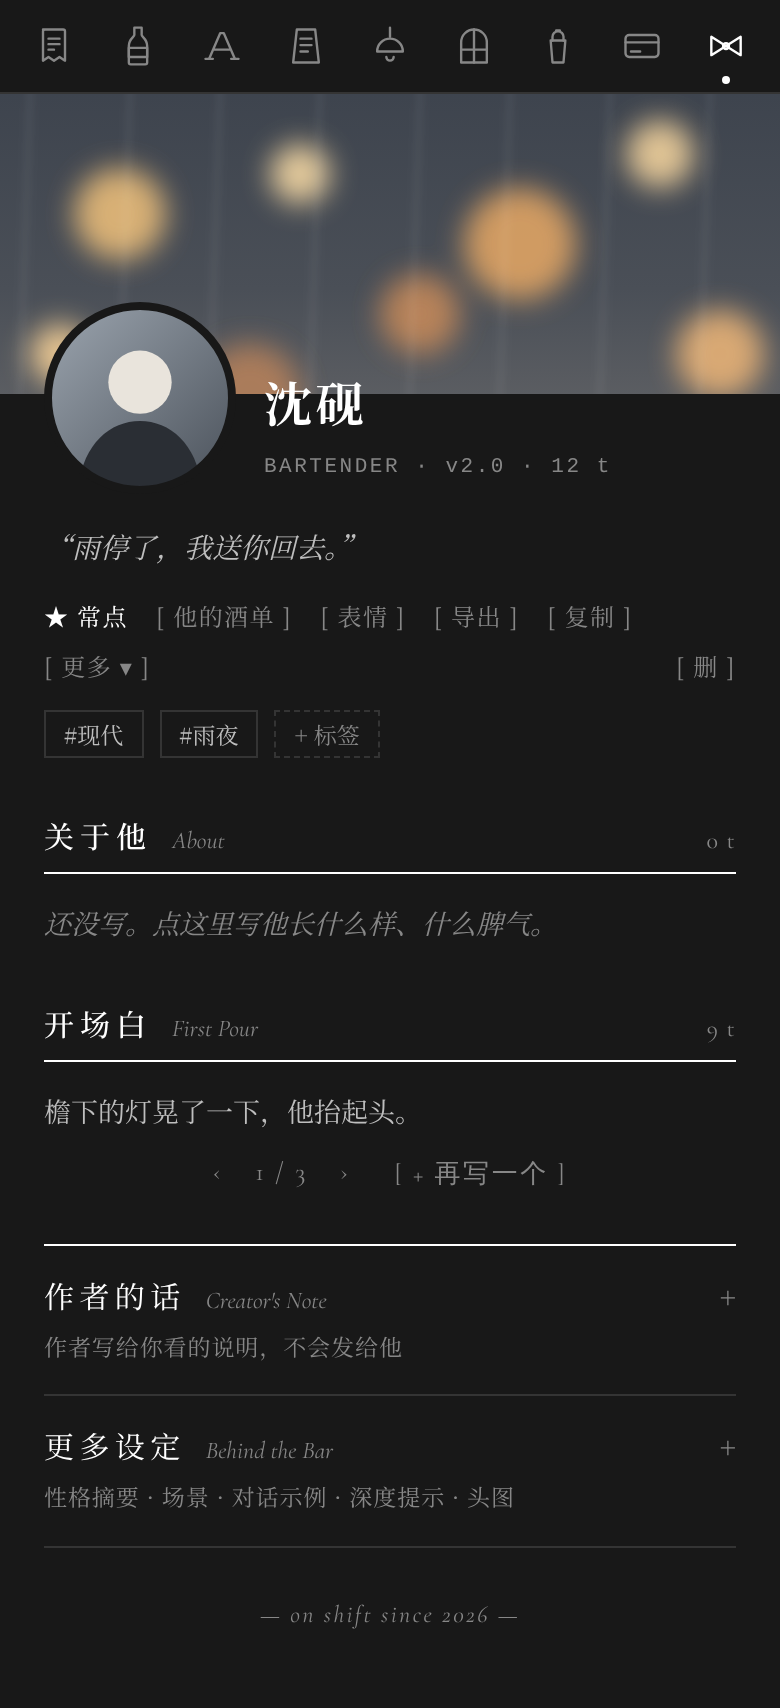
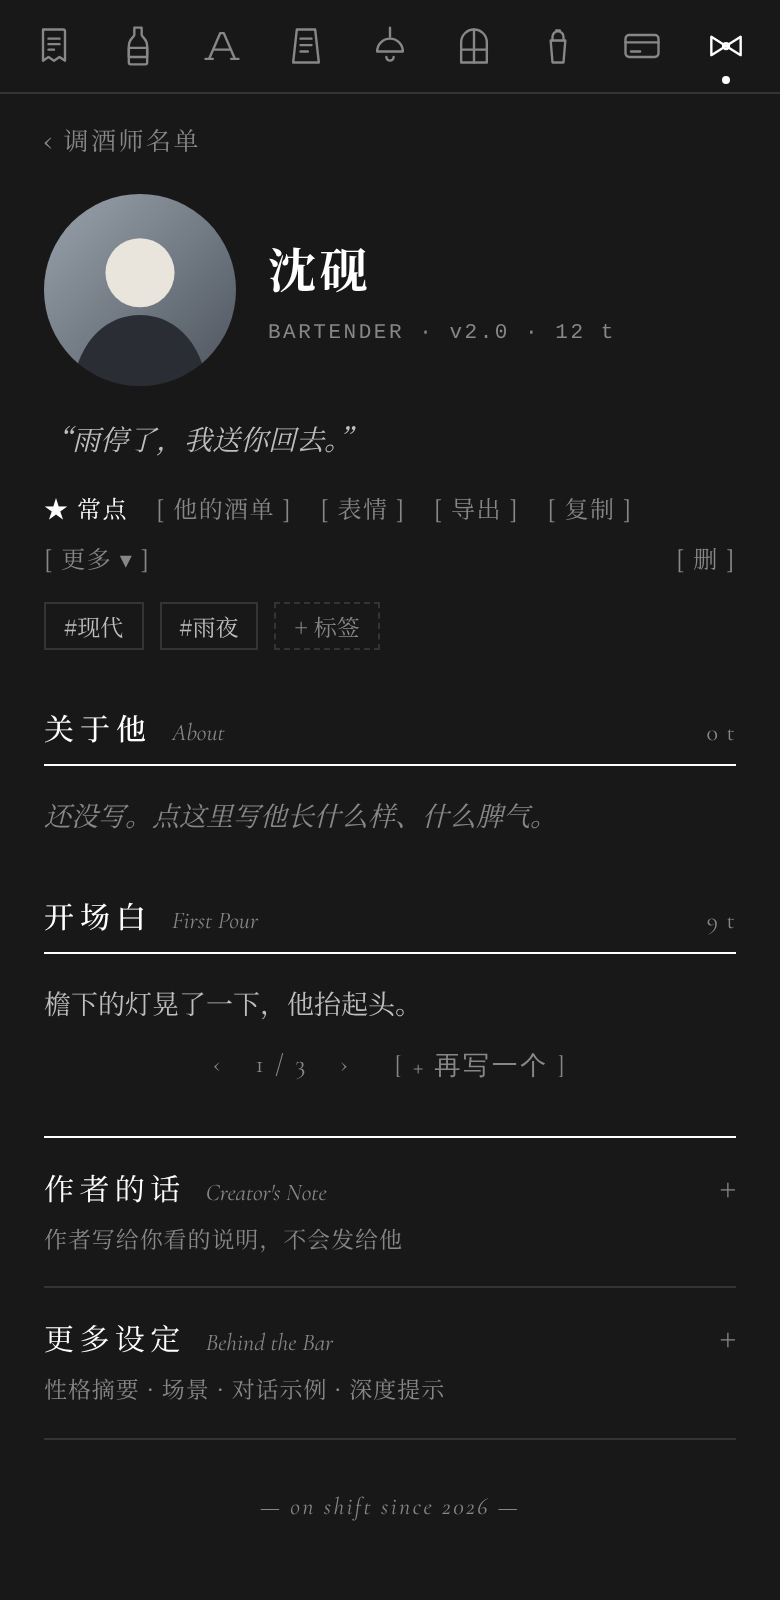
吧台美化：调酒师主页去掉头图，加「回到名单」
Claude-Session: https://claude.ai/code/session_01PCU4N3koT9JpRtqqzq5Uef

diff --git a/docs/mockups/bar-theme/bartender.html b/docs/mockups/bar-theme/bartender.html
@@ -107,9 +107,10 @@ body.dark .cover img { filter:invert(.88) hue-rotate(180deg) brightness(1.05); }
 .tb svg { width:22px; height:22px; stroke:currentColor; fill:none; stroke-width:1.3; stroke-linecap:round; stroke-linejoin:round; }
 .tb .on { color:var(--ink); } .tb .on::after { content:''; width:4px; height:4px; border-radius:50%; background:var(--ink); position:absolute; bottom:-8px; }
 .ban { height:150px; background:url(bokeh.svg) center/cover; }
-.prof { padding:0 22px; display:flex; gap:14px; align-items:flex-end; margin-top:-46px; }
-.prof .a { width:96px; height:96px; border-radius:50%; background:url(ava.svg) center/cover; border:4px solid var(--bg); flex:none; }
-.prof .n { padding-bottom:6px; } .prof .n b { font-size:24px; color:var(--ink); letter-spacing:.08em; display:block; }
+.back { padding:14px 22px 0; font-size:12.5px; color:var(--sub); letter-spacing:.1em; }
+.prof { padding:0 22px; display:flex; gap:16px; align-items:center; margin-top:18px; }
+.prof .a { width:96px; height:96px; border-radius:50%; background:url(ava.svg) center/cover; flex:none; }
+.prof .n { padding-bottom:0; } .prof .n b { font-size:24px; color:var(--ink); letter-spacing:.08em; display:block; }
 .prof .n span { font:500 10.5px 'IBM Plex Mono',monospace; color:var(--sub); letter-spacing:.12em; }
 .quote { font:italic 14px 'Noto Serif SC',serif; color:var(--text); margin:16px 0 0; }
 .acts { display:flex; flex-wrap:wrap; gap:8px 14px; font-size:12px; color:var(--sub); margin-top:16px; letter-spacing:.06em; }
@@ -124,7 +125,7 @@ body.dark .cover img { filter:invert(.88) hue-rotate(180deg) brightness(1.05); }
 .txt.empty { color:var(--sub); font-style:italic; }
 .sw { display:flex; justify-content:center; gap:16px; font:13px 'Cormorant Garamond',serif; color:var(--sub); margin-top:10px; letter-spacing:.1em; }
 </style><link rel="stylesheet" href="palette.css"></head><body><div class="tb" id="tb"></div>
-<div class="ban"></div>
+<div class="back">‹ 调酒师名单</div>
 <div class="prof"><div class="a"></div><div class="n"><b>沈砚</b><span>BARTENDER · v2.0 · 12 t</span></div></div>
 <div class="wrap">
  <div class="quote">“雨停了，我送你回去。”</div>
@@ -136,7 +137,7 @@ body.dark .cover img { filter:invert(.88) hue-rotate(180deg) brightness(1.05); }
  <div class="txt">檐下的灯晃了一下，他抬起头。</div>
  <div class="sw"><span>‹</span><span>1 / 3</span><span>›</span><span style="margin-left:6px">[ + 再写一个 ]</span></div>
  <div class="fold" style="margin-top:26px"><div class="row"><span class="nm">作者的话</span><span class="en">Creator's Note</span><span class="pm">+</span></div><div class="sum">作者写给你看的说明，不会发给他</div></div>
- <div class="fold" style="margin-top:0;border-top:none"><div class="row"><span class="nm">更多设定</span><span class="en">Behind the Bar</span><span class="pm">+</span></div><div class="sum">性格摘要 · 场景 · 对话示例 · 深度提示 · 头图</div></div>
+ <div class="fold" style="margin-top:0;border-top:none"><div class="row"><span class="nm">更多设定</span><span class="en">Behind the Bar</span><span class="pm">+</span></div><div class="sum">性格摘要 · 场景 · 对话示例 · 深度提示</div></div>
  <div class="foot">— on shift since 2026 —</div></div>
 <script>if(new URLSearchParams(location.search).get("dark"))document.body.classList.add("dark");
 document.getElementById('tb').innerHTML=TABS.map((t,i)=>`<div class="t ${i==8?'on':''}"><svg viewBox="0 0 24 24">${t[1]}</svg></div>`).join('');</script></body></html>

diff --git a/docs/bar-theme.md b/docs/bar-theme.md
@@ -74,10 +74,11 @@
 - 每位一行：头像、名字、版本号、斜体一句话、标签，右边「找他 →」
 
 ### 调酒师主页（bartender，角色点进去）
-- 头图 + 压在头图边上的大圆头像，名字和「BARTENDER · 版本 · token」
+- 最上面「‹ 调酒师名单」，点了回到列表（她 11/10 说少了这个）
+- **不要头图**（她 11/10 说的：角色卡本来就没有头图，干脆去掉）；大圆头像在左，名字和「BARTENDER · 版本 · token」在右
 - 斜体一句话；★ 常点 / 他的酒单 / 表情 / 导出 / 复制 / 更多，「删」在右；标签一排
 - 关于他（描述）、开场白（‹ 1 / 3 › 翻其他开场、「+ 再写一个」）
-- 作者的话、更多设定（性格摘要、场景、对话示例、深度提示、头图）收起来
+- 作者的话、更多设定（性格摘要、场景、对话示例、深度提示）收起来
 
 ## 卡顿（她 11/10 说的，做的时候一起处理）
 
